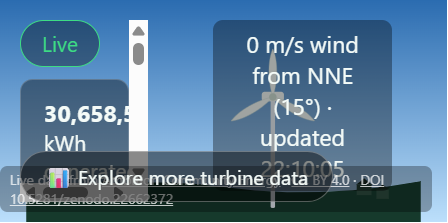
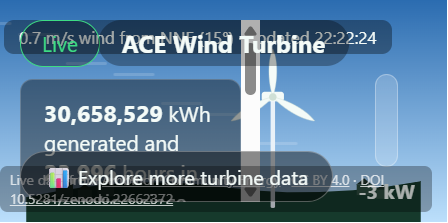
concept-5: add centred title, shrink wind readout to one line, fix overlay width-safety formula

diff --git a/solutions/concept-5-live-digital-twin-plus/styles.css b/solutions/concept-5-live-digital-twin-plus/styles.css
@@ -159,6 +159,22 @@ body {
   max-width: 10ch;
 }
 
+.scene-title {
+  position: absolute;
+  top: clamp(1rem, 3vw, 2rem);
+  left: 50%;
+  transform: translateX(-50%);
+  margin: 0;
+  padding: 0.3em 1em;
+  background: rgba(0, 0, 0, 0.3);
+  border-radius: 999px;
+  font-size: clamp(1.2rem, 2.2vw, 1.8rem);
+  font-weight: 700;
+  text-align: center;
+  white-space: nowrap;
+  z-index: 1;
+}
+
 .overlay {
   position: absolute;
   left: clamp(1rem, 3vw, 2rem);
@@ -170,8 +186,9 @@ body {
   align-items: flex-start;
   overflow-y: auto;
   /* Capped so it can never reach into the top-right readout's own reserved
-     space, however wide either box's content gets, on any screen width. */
-  max-width: min(70.4ch, calc(100vw - min(34ch, 40vw) - 7rem));
+     space (~300px measured, plus margin), nor into the centred title's own
+     reserved half-width, on any screen width. */
+  max-width: min(70.4ch, max(calc(100vw - 20rem - 7rem), 12rem), max(calc(50vw - 14rem), 12rem));
 }
 
 .freshness {
@@ -201,8 +218,8 @@ body {
   background: rgba(0, 0, 0, 0.35);
   padding: 0.35em 0.9em;
   border-radius: 8px;
-  font-size: 1.15rem;
-  max-width: min(34ch, 40vw);
+  font-size: 0.85rem;
+  white-space: nowrap;
   text-align: center;
   flex-shrink: 0;
   margin-right: 1.75rem;

diff --git a/solutions/concept-5-live-digital-twin-plus/index.html b/solutions/concept-5-live-digital-twin-plus/index.html
@@ -36,6 +36,8 @@
       </g>
     </svg>
 
+    <h1 class="scene-title">ACE Wind Turbine</h1>
+
     <div class="right-column">
       <div class="readout">
         <span id="wind-value">--</span> m/s wind from <span id="heading-value">--</span> · updated <span id="observed-value">--</span>

diff --git a/solutions/concept-5-live-digital-twin-plus/README.md b/solutions/concept-5-live-digital-twin-plus/README.md
@@ -27,6 +27,9 @@ official ACE reference dashboard and two rounds of feedback:
    explorer panel.
 7. **The wind/heading readout moved to the top-right**, next to the energy
    meter, so the left side of the screen isn't carrying all of the text.
+8. **A centred "ACE Wind Turbine" title** now sits at the top of the scene.
+9. **The wind readout always fits on one line** (smaller font, no wrapping),
+   instead of wrapping across several short lines.
 
 Concept 4 is left completely untouched; this is a separate, additive
 concept.
@@ -138,7 +141,25 @@ right side of the screen with nothing but the energy meter. It's now a
 standalone box at the top-right, grouped with the energy meter in a shared
 right-hand column (so the two can never overlap regardless of their exact
 content length or the screen's aspect ratio), which balances the layout
-between both sides of the screen.
+between both sides of the screen. It's shifted slightly left of the energy
+meter (via its own margin) and its text is centred rather than
+right-aligned.
+
+### 8. A centred title
+
+A plain "ACE Wind Turbine" heading now sits at the top-centre of the scene,
+so the screen reads clearly as the turbine's own display even from a
+distance, before a visitor reads any of the live numbers.
+
+### 9. One-line wind readout
+
+The wind readout's font size was reduced and wrapping disabled, so "X m/s
+wind from Y · updated HH:MM:SS" always renders as a single line rather than
+wrapping across several short ones. The left-hand info panel's own maximum
+width is calculated (via CSS `calc()`/`min()`/`max()`) to stay clear of both
+the centred title and the top-right readout at any screen width, rather
+than being a fixed guess — checked directly against the rendered values at
+both 1280×720 and 1920×1080.
 
 ## Addressing the challenge's own judging criteria
 
